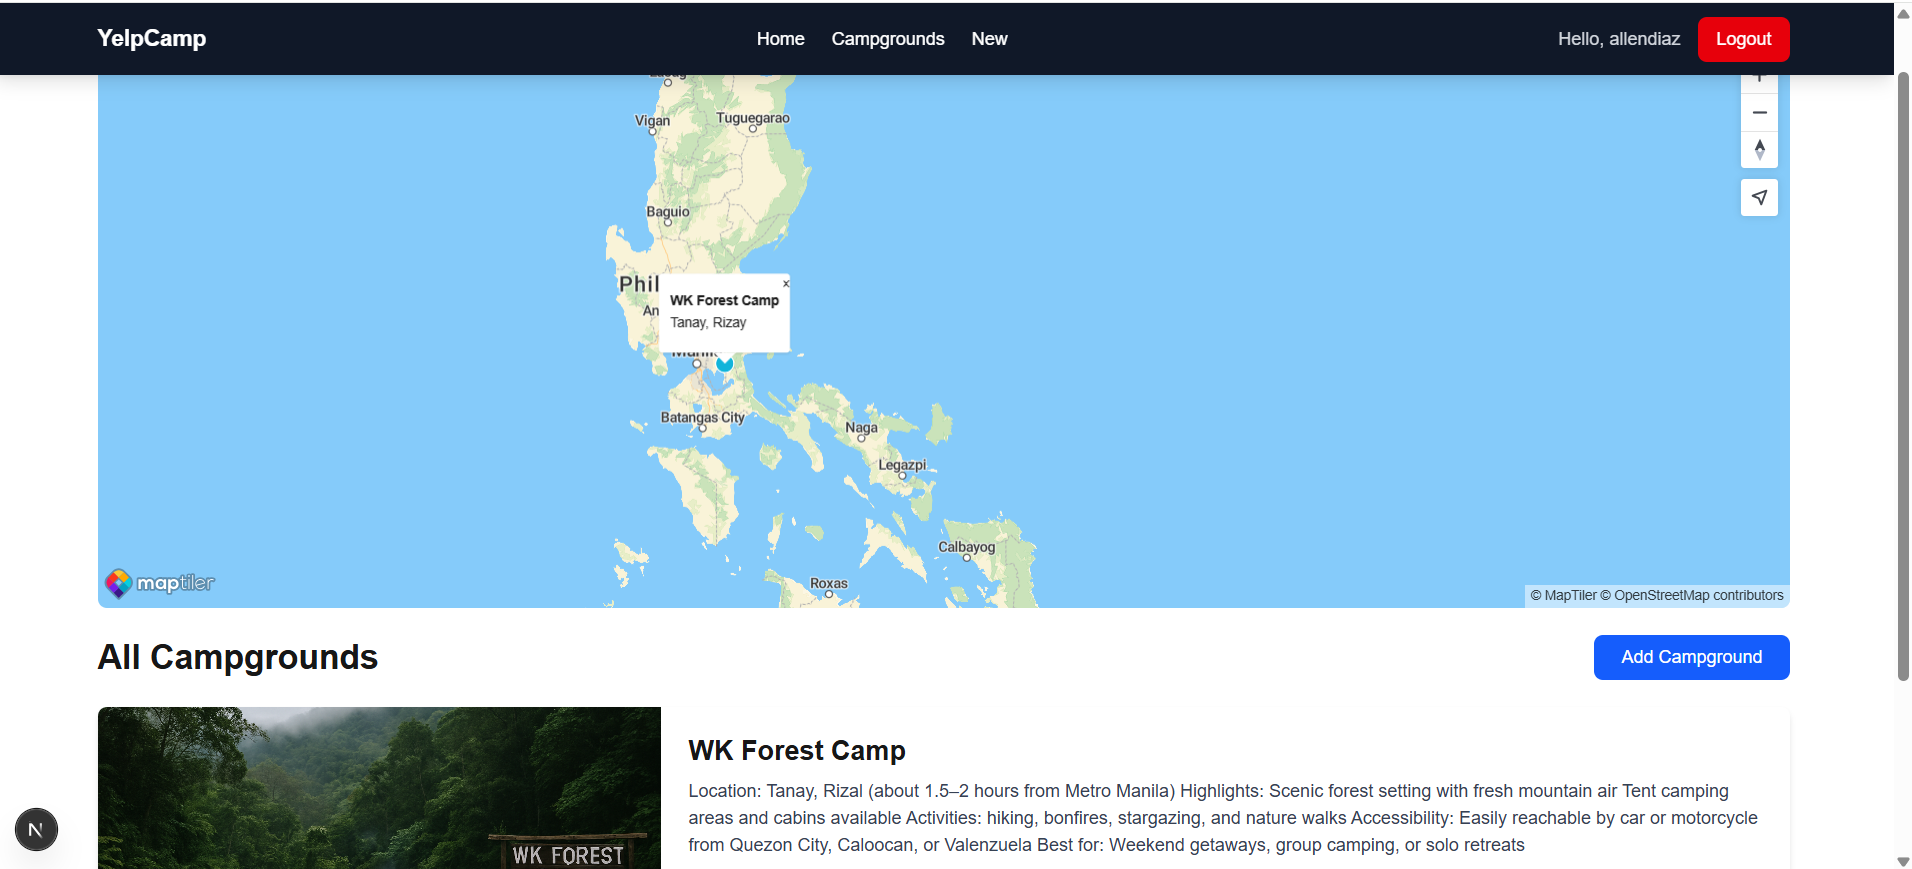
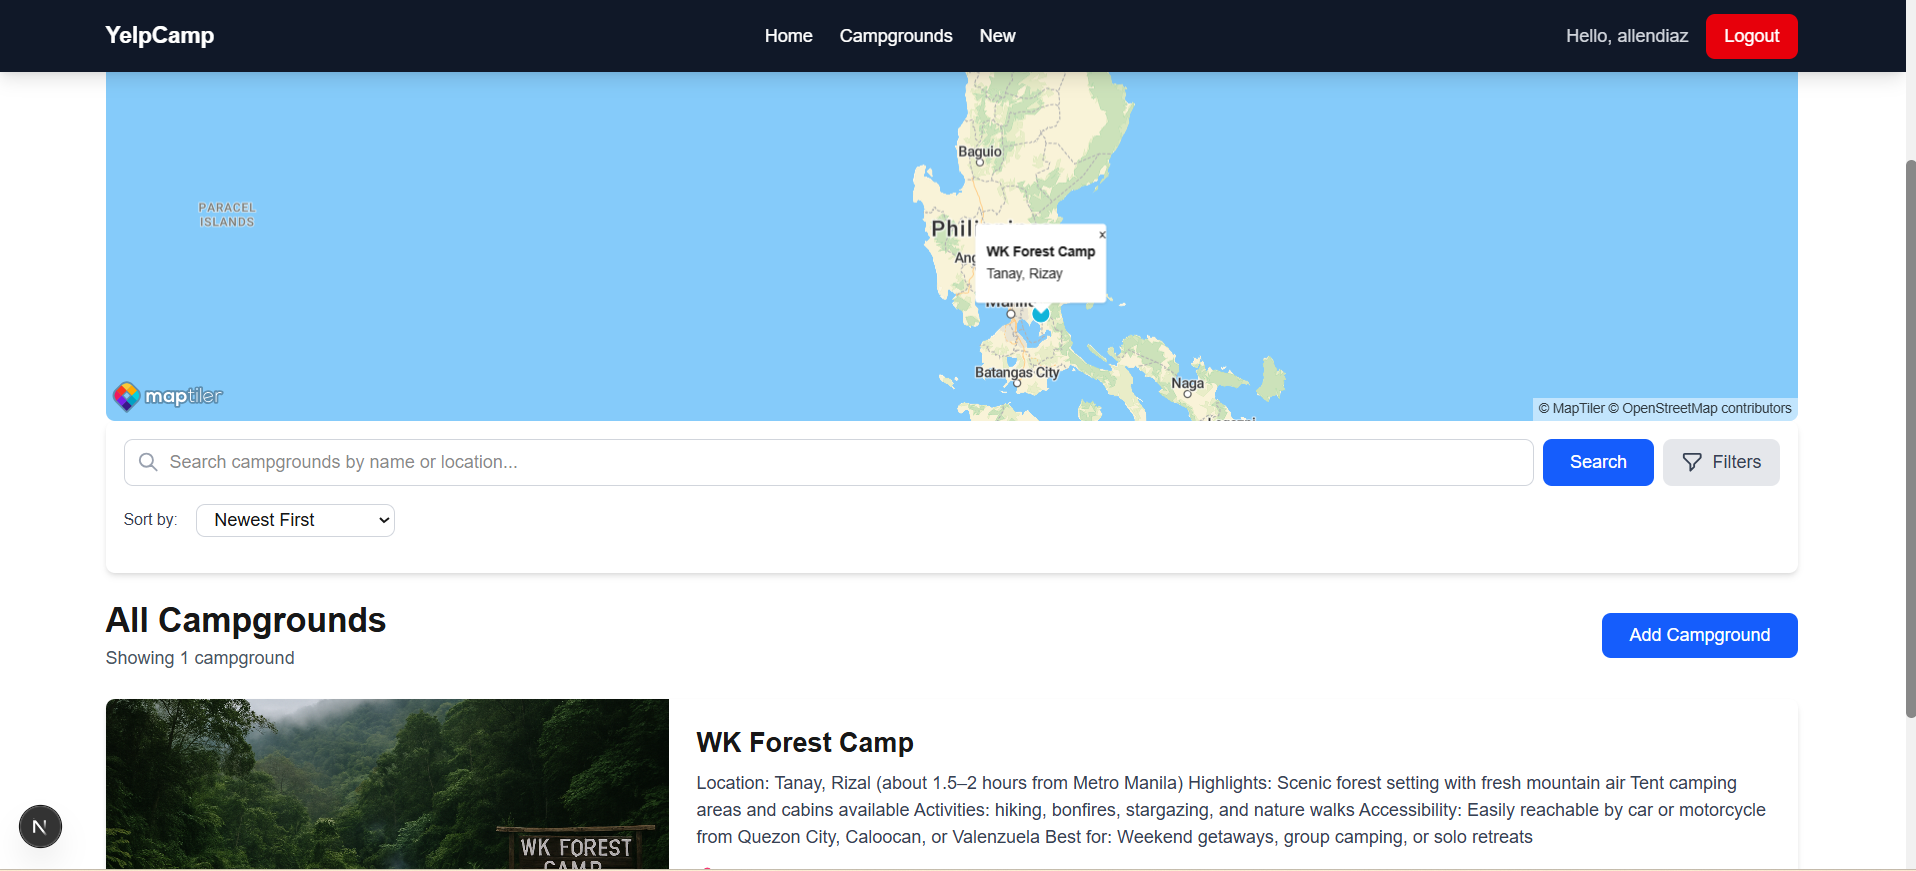
fix: Improve project detail UI and close button accessibility
- Add markdown bold syntax parsing (**text**) in project descriptions
- Fix ProjectPanel close button clickability and visibility (z-20, better contrast)
- Fix RestrictedLinkModal close button clickability and visibility (z-20, better contrast)
- Add aria-labels to close buttons for accessibility
- Update camp project image (camp3.png)

diff --git a/app/projects/[slug]/page.tsx b/app/projects/[slug]/page.tsx
@@ -268,12 +268,26 @@ export default function ProjectDetailPage({ params }: ProjectDetailPageProps) {
             {project.longDescription && (
               <div className="bg-zinc-800/50 border border-zinc-700 rounded-xl p-8">
                 <h2 className="text-2xl font-bold mb-4">About This Project</h2>
-                <div className="prose prose-invert max-w-none">
-                  {project.longDescription.split('\n').map((paragraph, idx) => (
-                    <p key={idx} className="text-gray-300 leading-relaxed mb-4">
-                      {paragraph}
-                    </p>
-                  ))}
+                <div className="prose prose-invert max-w-none space-y-4">
+                  {project.longDescription.split('\n').map((paragraph, idx) => {
+                    if (!paragraph.trim()) return null;
+                    
+                    // Parse markdown bold syntax **text** and convert to <strong>
+                    const parts = paragraph.split(/(\*\*.*?\*\*)/g);
+                    
+                    return (
+                      <p key={idx} className="text-gray-300 leading-relaxed">
+                        {parts.map((part, partIdx) => {
+                          // Check if this part is bold
+                          if (part.startsWith('**') && part.endsWith('**')) {
+                            const boldText = part.slice(2, -2); // Remove ** from both ends
+                            return <strong key={partIdx} className="font-bold text-white">{boldText}</strong>;
+                          }
+                          return <span key={partIdx}>{part}</span>;
+                        })}
+                      </p>
+                    );
+                  })}
                 </div>
               </div>
             )}

diff --git a/components/ui/RestrictedLinkModal.tsx b/components/ui/RestrictedLinkModal.tsx
@@ -51,7 +51,8 @@ export default function RestrictedLinkModal({ isOpen, onClose, linkType, project
                 
                 <button
                   onClick={onClose}
-                  className="absolute top-4 right-4 p-2 rounded-full bg-black/30 hover:bg-black/50 transition-colors backdrop-blur-sm z-10"
+                  className="absolute top-4 right-4 p-2 rounded-full bg-black/50 hover:bg-black/70 transition-colors backdrop-blur-sm z-20 border border-white/20 cursor-pointer"
+                  aria-label="Close modal"
                 >
                   <X className="w-5 h-5 text-white" />
                 </button>

diff --git a/components/ui/ProjectPanel.tsx b/components/ui/ProjectPanel.tsx
@@ -92,7 +92,8 @@ export default function ProjectPanel() {
                 
                 <button
                   onClick={handleClose}
-                  className="absolute top-4 right-4 p-2 rounded-full bg-black/30 hover:bg-black/50 transition-colors backdrop-blur-sm z-10"
+                  className="absolute top-4 right-4 p-2 rounded-full bg-black/50 hover:bg-black/70 transition-colors backdrop-blur-sm z-20 cursor-pointer border border-white/20"
+                  aria-label="Close project panel"
                 >
                   <X className="w-5 h-5 text-white" />
                 </button>
